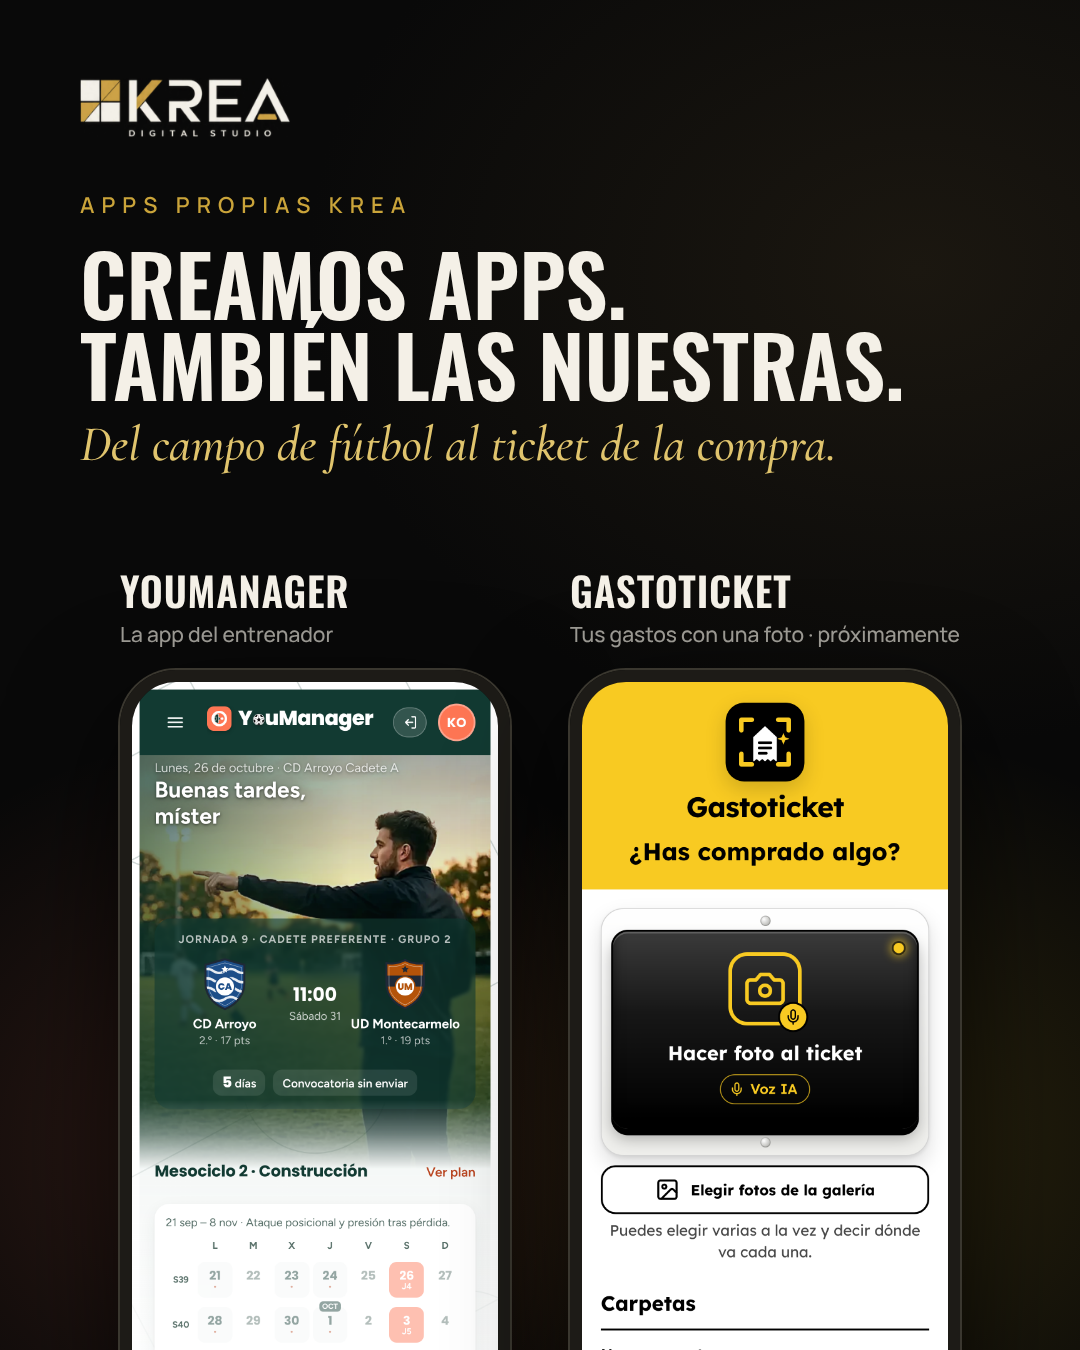
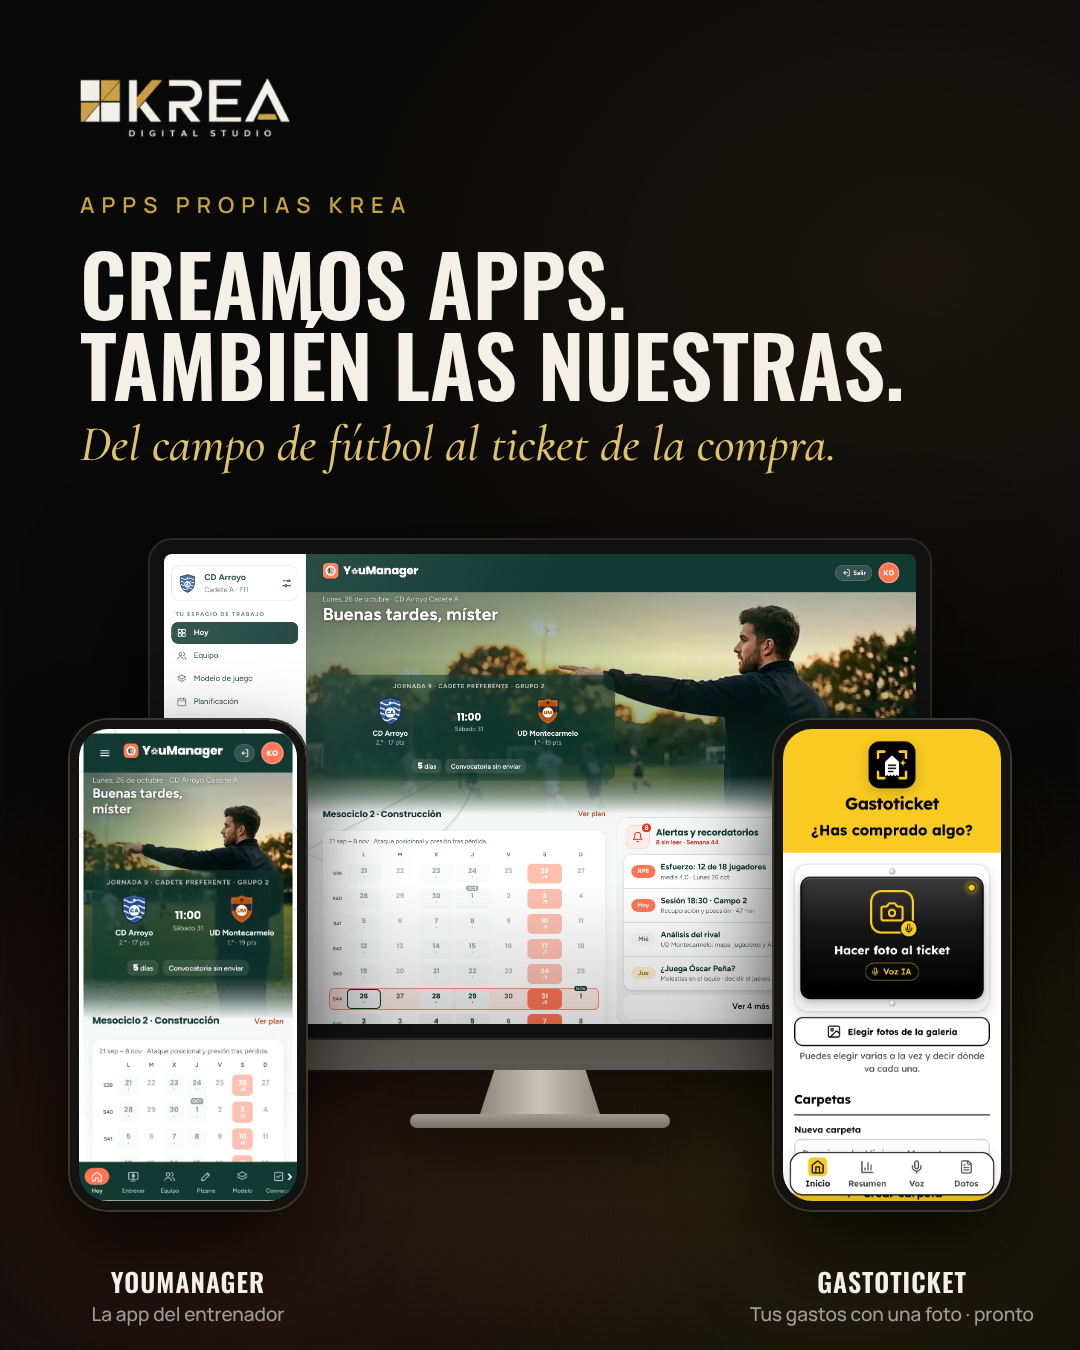
Instagram: apps propias con YouManager en ordenador y las dos apps en móvil, sin recortes
Claude-Session: https://claude.ai/code/session_011XVjYd2a9qvWxh1gRjA1Zn

diff --git a/redes/instagram-2026-10/posts.html b/redes/instagram-2026-10/posts.html
@@ -78,6 +78,15 @@ body{background:#333}
 .duo figcaption span{font:500 21px M;color:var(--mut)}
 .ph2{height:840px;border-radius:56px 56px 0 0;border:12px solid #1d1b17;border-bottom:0;overflow:hidden;box-shadow:0 0 0 2px #3a372f,0 40px 110px rgba(0,0,0,.7)}
 .ph2 img{display:block;width:100%}
+.mon7{position:absolute;left:150px;width:780px;top:540px}
+.mon7 .neck{width:120px;height:44px}.mon7 .base{width:260px}.mon7 .chin{height:32px}
+.pf{position:absolute;width:236px;border-radius:38px;border:9px solid #141310;overflow:hidden;box-shadow:0 0 0 2px #3a372f,0 40px 90px rgba(0,0,0,.75)}
+.pf img{display:block;width:100%}
+.pf1{left:70px;top:720px}
+.pf2{right:70px;top:720px}
+.lbl{position:absolute;top:1262px;font:500 19px M;color:var(--mut);text-align:center;width:360px}
+.lbl b{display:block;font:600 26px O;color:var(--ivory);text-transform:uppercase;letter-spacing:.04em}
+.l1{left:8px}.l2{right:8px}
 /* 5 apps */
 .ph{position:absolute;width:290px;border-radius:38px;border:8px solid #1d1b17;box-shadow:0 40px 100px rgba(0,0,0,.7)}
 /* 6 marca */
@@ -140,8 +149,10 @@ body{background:#333}
 <div class="txt" style="top:190px"><div class="tag">Apps propias KREA</div>
 <h2 class="h" style="font-size:84px">Creamos apps.<br>También las nuestras.</h2>
 <div class="s" style="font-size:50px">Del campo de fútbol al ticket de la compra.</div></div>
-<div class="duo">
-<figure><figcaption><b>YouManager</b><span>La app del entrenador</span></figcaption><div class="ph2"><img src="file:///home/user/krea-instagram/apps2/you-hoy.png"></div></figure>
-<figure><figcaption><b>Gastoticket</b><span>Tus gastos con una foto · próximamente</span></figcaption><div class="ph2"><img src="file:///home/user/krea-instagram/apps2/gt-inicio.png"></div></figure>
-</div></section>
+<div class="mon7"><div class="scr"><img src="file:///home/user/krea-instagram/apps2/you-desk.png"><i class="glass"></i></div><div class="chin"></div><div class="neck"></div><div class="base"></div></div>
+<div class="pf pf1"><img src="file:///home/user/krea-instagram/apps2/you-hoy.png"></div>
+<div class="pf pf2"><img src="file:///home/user/krea-instagram/apps2/gt-inicio.png"></div>
+<div class="lbl l1"><b>YouManager</b><span>La app del entrenador</span></div>
+<div class="lbl l2"><b>Gastoticket</b><span>Tus gastos con una foto · pronto</span></div>
+</section>
 </body></html>
